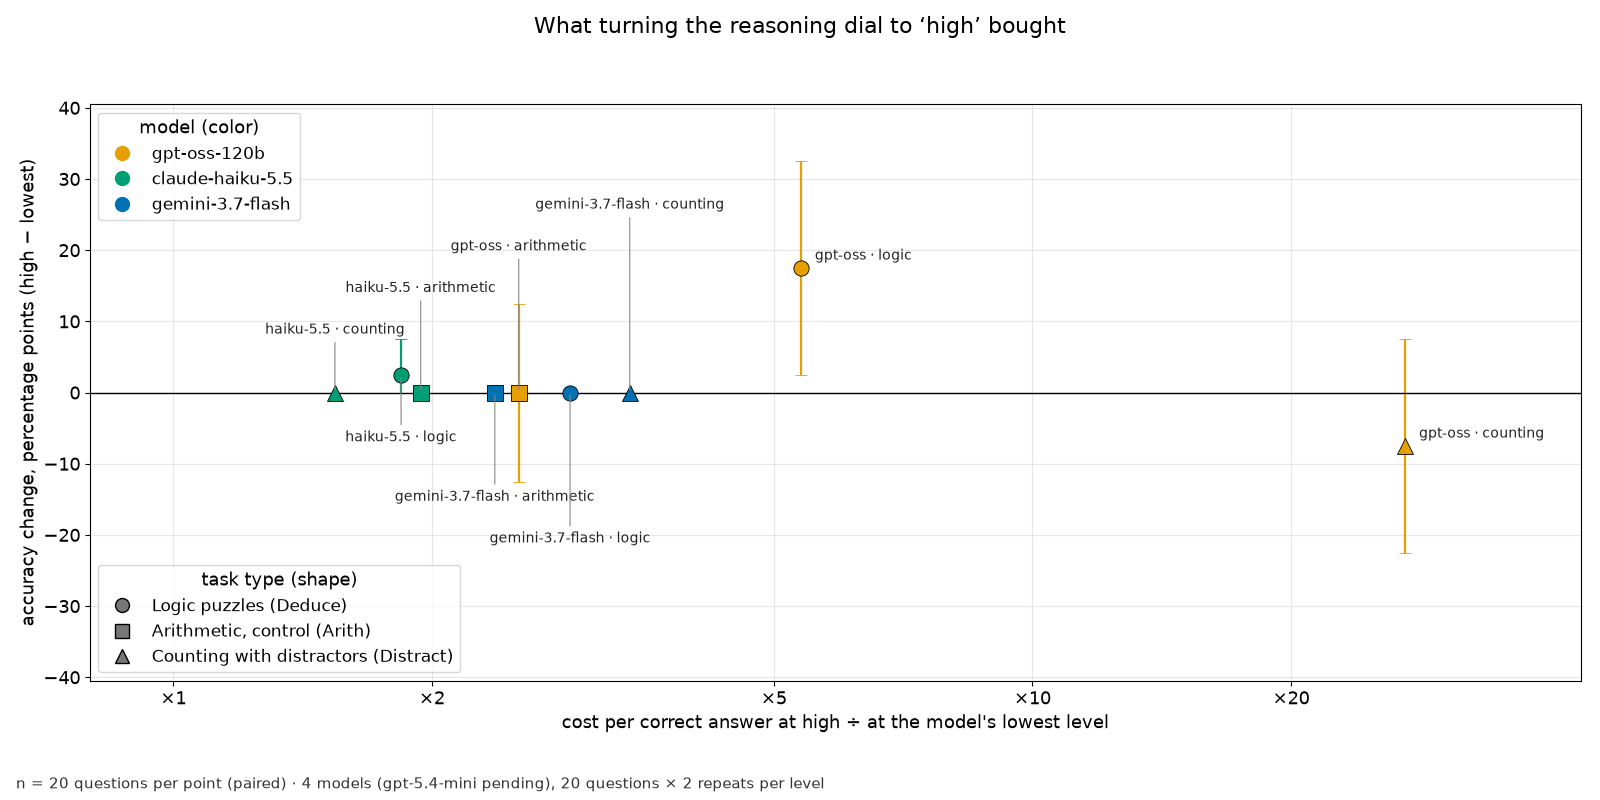
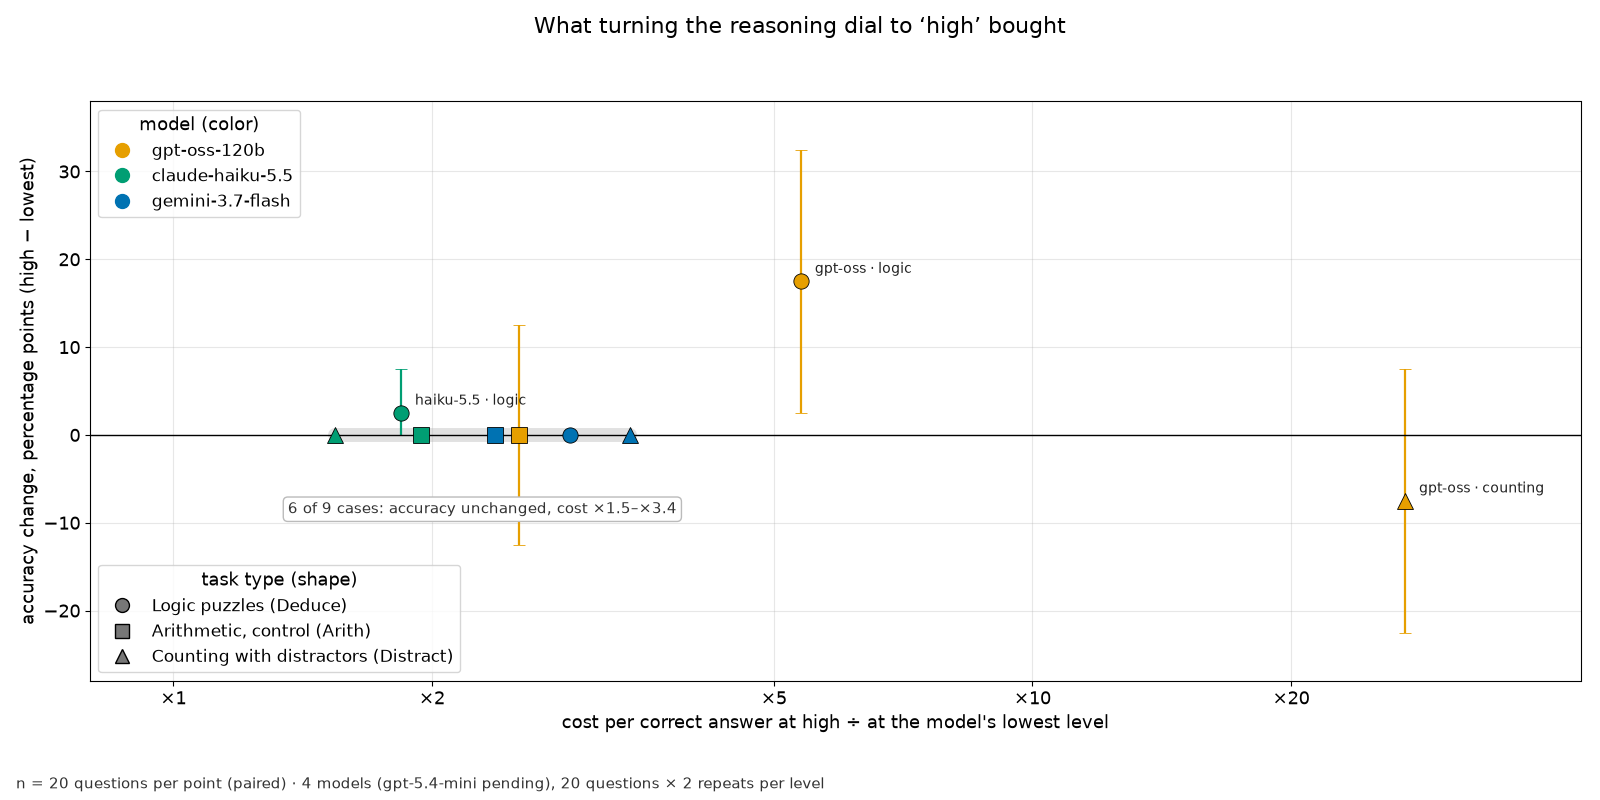
Fig 0: label off-zero points only, data-driven zero-cluster note, adaptive y-range

diff --git a/analysis/analyze.py b/analysis/analyze.py
@@ -626,26 +626,30 @@ def fig_cost_vs_gain(tests, cost, fig_dir, full, short):
     for m, fam, x, y, lo, hi in rows:
         ax.errorbar(x, y, yerr=[[y - lo], [hi - y]], fmt=FAMILY_MARKER[fam], color=_color(m), ms=11,
                     capsize=4, lw=1.6, mec="black", mew=0.6)
-    # Labels: points near 0 pp crowd together, so stagger their labels up and down
-    # (alternating, growing distance, ordered by x) with thin leader lines.
-    near = sorted([r for r in rows if abs(r[3]) < 4], key=lambda r: r[2])
-    far = [r for r in rows if abs(r[3]) >= 4]
-    for m, fam, x, y, *_ in far:
+    # Label only points off the zero line; summarise the zero-change cluster in one note.
+    zero = [r for r in rows if abs(r[3]) < 1e-9]
+    for m, fam, x, y, *_ in (r for r in rows if abs(r[3]) >= 1e-9):
         ax.annotate(f"{TINY.get(m, _short(m))} · {FAMILY_WORD[fam]}", (x, y), textcoords="offset points",
                     xytext=(10, 6), fontsize=10, color="#222222")
-    for k, (m, fam, x, y, *_) in enumerate(near):
-        dy = (1 if k % 2 == 0 else -1) * (40 + 30 * (k // 2))
-        ax.annotate(f"{TINY.get(m, _short(m))} · {FAMILY_WORD[fam]}", (x, y), textcoords="offset points",
-                    xytext=(0, dy), fontsize=10, color="#222222", ha="center",
-                    va="bottom" if dy > 0 else "top",
-                    arrowprops={"arrowstyle": "-", "color": "#888888", "lw": 0.8})
     ax.axhline(0, color="black", lw=1)
     ax.set_xscale("log")
+    if zero:
+        zx = [r[2] for r in zero]
+        a, b = min(zx), max(zx)
+        ax.plot([a, b], [0, 0], color="#888888", lw=10, alpha=0.25, solid_capstyle="round", zorder=0)
+        ax.annotate(f"{len(zero)} of {len(rows)} cases: accuracy unchanged, cost ×{a:.1f}–×{b:.1f}",
+                    (float(np.sqrt(a * b)), 0), textcoords="offset points", xytext=(0, -48),
+                    ha="center", va="top", fontsize=11, color="#333333",
+                    bbox={"boxstyle": "round,pad=0.3", "fc": "white", "ec": "#bbbbbb"})
     xs = [r[2] for r in rows] or [1, 2]
     ax.set_xlim(min(0.8, min(xs) / 1.3), max(25, max(xs) * 1.6))
     _times_axis(ax)
-    ylim = max(30, max((abs(v) for r in rows for v in r[3:]), default=10) + 8)
-    ax.set_ylim(-ylim, ylim)
+    # y range adapts to every error bar (plus padding); always keeps room around 0 for the note.
+    los = [r[4] for r in rows] or [0]
+    his = [r[5] for r in rows] or [0]
+    lo_v, hi_v = min(min(los), -15), max(max(his), 15)
+    pad = max(5, 0.1 * (hi_v - lo_v))
+    ax.set_ylim(lo_v - pad, hi_v + pad)
     ax.set_xlabel("cost per correct answer at high ÷ at the model's lowest level")
     ax.set_ylabel("accuracy change, percentage points (high − lowest)")
     ax.grid(alpha=0.3)
